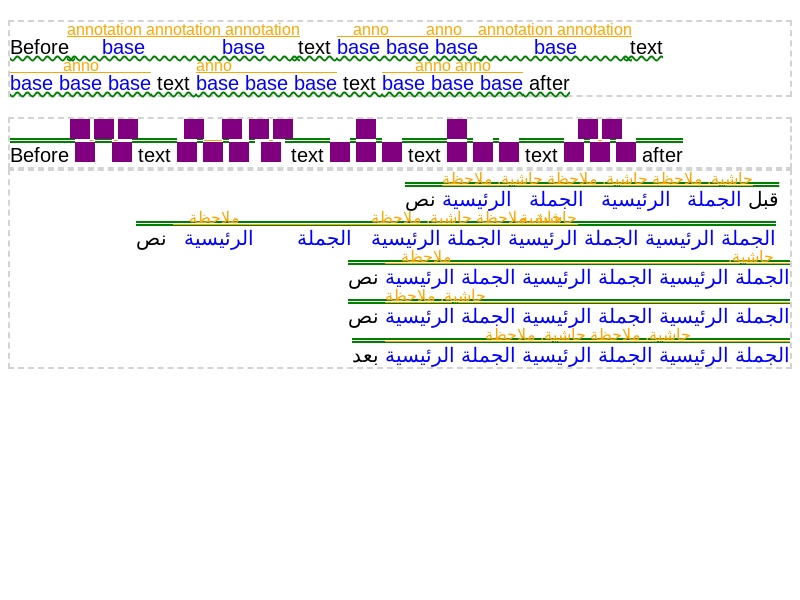
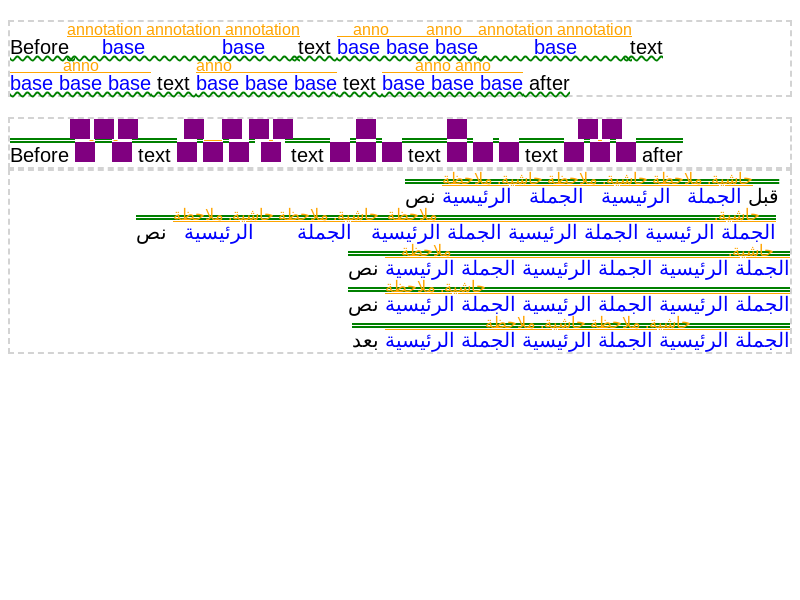
RubyLB: Fix annotation inline positions with bidi reordering
LogicalRubyColumn::start_index was stale after bidi reordering.

Bug: 324111880
Commit-Queue: Kent Tamura <tkent@chromium.org>
Cr-Commit-Position: refs/heads/main@{#1294820}
NOKEYCHECK=True
GitOrigin-RevId: 1e3eda9848f805762eaaa0258d1d2531d0c29db1

Changed region(s): [[0.1562, 0.3, 1.0, 0.63], [0.0, 0.57, 0.0312, 0.6]]

diff --git a/blink/renderer/core/layout/inline/logical_line_builder.cc b/blink/renderer/core/layout/inline/logical_line_builder.cc
@@ -4,6 +4,8 @@
 
 #include "third_party/blink/renderer/core/layout/inline/logical_line_builder.h"
 
+#include <algorithm>
+
 #include "base/containers/adapters.h"
 #include "third_party/blink/renderer/core/layout/disable_layout_side_effects_scope.h"
 #include "third_party/blink/renderer/core/layout/inline/inline_box_state.h"
@@ -70,7 +72,8 @@ void LogicalLineBuilder::CreateLine(LineInfo* line_info,
 
   if (UNLIKELY(node_.IsBidiEnabled())) {
     box_states_->PrepareForReorder(line_box);
-    BidiReorder(line_info->BaseDirection(), line_box);
+    BidiReorder(line_info->BaseDirection(), line_box,
+                box_states_->RubyColumnList());
     box_states_->UpdateAfterReorder(line_box);
   } else {
     DCHECK(IsLtr(line_info->BaseDirection()));
@@ -485,8 +488,10 @@ void LogicalLineBuilder::PlaceListMarker(const InlineItem& item,
   }
 }
 
-void LogicalLineBuilder::BidiReorder(TextDirection base_direction,
-                                     LogicalLineItems* line_box) {
+void LogicalLineBuilder::BidiReorder(
+    TextDirection base_direction,
+    LogicalLineItems* line_box,
+    HeapVector<Member<LogicalRubyColumn>>& column_list) {
   if (line_box->IsEmpty()) {
     return;
   }
@@ -554,6 +559,34 @@ void LogicalLineBuilder::BidiReorder(TextDirection base_direction,
   DCHECK_EQ(line_box->size(), visual_items.size());
   line_box->swap(visual_items);
   context_->ReleaseTempLogicalLineItems(visual_items);
+
+  // Adjust LogicalRubyColumn::start_index.
+  if (column_list.size() > 0) {
+    Vector<unsigned, 32> logical_to_visual(line_box->size());
+    for (unsigned i = 0; i < indices_in_visual_order.size(); ++i) {
+      logical_to_visual[indices_in_visual_order[i]] = i;
+    }
+    for (auto& column : column_list) {
+      // Find the minimum visual index in the logical range
+      // [column->start_index, column->EndIndex()).
+      //
+      // Base items in a ruby column are placed consecutively even after the
+      // reorder because they are isolated.
+      //
+      // std::min_element() below doesn't return the end iterator because we
+      // ensure there is at least one item in the range.
+      auto begin = logical_to_visual.begin();
+      column->start_index = *std::min_element(begin + column->start_index,
+                                              begin + column->EndIndex());
+    }
+    // The order is important for RubyBlockPositionCalculator::HandleRubyLine().
+    std::stable_sort(
+        column_list.begin(), column_list.end(),
+        [](const auto& column1, const auto& column2) {
+          int32_t diff = column2->start_index - column1->start_index;
+          return diff != 0 ? (diff > 0) : (column1->size > column2->size);
+        });
+  }
 }
 
 }  // namespace blink

diff --git a/blink/renderer/core/layout/inline/logical_line_builder.h b/blink/renderer/core/layout/inline/logical_line_builder.h
@@ -91,7 +91,9 @@ class LogicalLineBuilder {
                            LogicalRubyColumn& logical_column);
   void PlaceListMarker(const InlineItem&, InlineItemResult*);
 
-  void BidiReorder(TextDirection base_direction, LogicalLineItems* line_box);
+  void BidiReorder(TextDirection base_direction,
+                   LogicalLineItems* line_box,
+                   HeapVector<Member<LogicalRubyColumn>>& column_list);
 
   InlineNode node_;
   const ConstraintSpace& constraint_space_;
